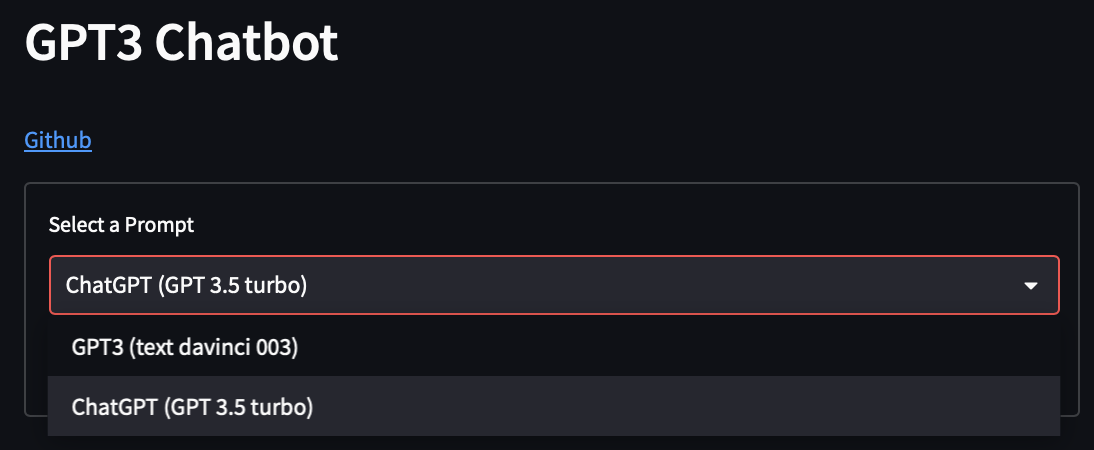
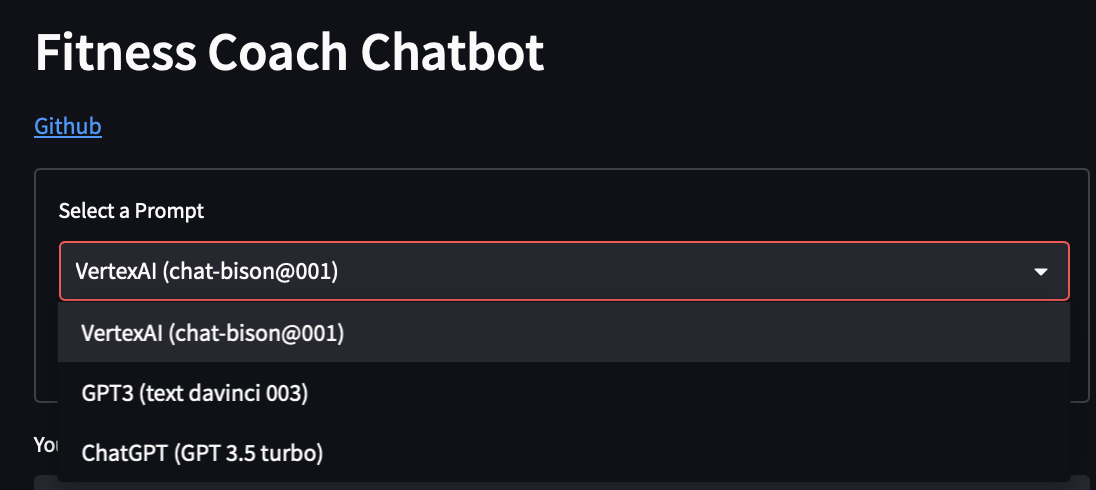
added support for Google Vertex AI

diff --git a/VertexAI.py b/VertexAI.py
@@ -1,0 +1,49 @@
+from vertexai.preview.language_models import ChatModel
+import vertexai
+import json  
+from google.oauth2 import service_account
+import google.cloud.aiplatform as aiplatform
+from vertexai.preview.language_models import InputOutputTextPair
+# Load the service account json file
+# Update the values in the json file with your own
+with open(
+    "service_account.json"
+) as f:  # replace 'service_account.json' with the path to your file if necessary
+    service_account_info = json.load(f)
+
+my_credentials = service_account.Credentials.from_service_account_info(
+    service_account_info
+)
+
+# Initialize Google AI Platform with project details and credentials
+aiplatform.init(
+    credentials=my_credentials,
+)
+
+with open("service_account.json", encoding="utf-8") as f:
+    project_json = json.load(f)
+    project_id = project_json["project_id"]
+
+
+# Initialize Vertex AI with project and location
+vertexai.init(project=project_id, location="us-central1")
+
+def vertexAI(human_msg="Hi"):
+    """
+    Receives a message from the user, processes it, and returns a response from the model.
+    """
+    chat_model = ChatModel.from_pretrained("chat-bison@001")
+    chat = chat_model.start_chat(  # Initialize the chat with model
+        context = """You are a personal trainer. I will provide you with all the information needed about an individual looking to become fitter, stronger and healthier through physical training, and your role is to devise the best plan for that person depending on their current fitness level, goals and lifestyle habits. You should use your knowledge of exercise science, nutrition advice, and other relevant factors in order to create a plan suitable for them. My first request is "I need help designing an exercise program for someone who wants to lose weight. You should be able to provide suggestions to users regarding their exercise routines, diet plans, etc. according to the users’ fitness goals.""",
+        examples = [InputOutputTextPair(input_text="Can you help me design an exercise program to improve my overall fitness?",output_text="Sure, I'd be happy to help. Can you tell me a little bit about your current fitness level and your fitness goals?"),
+                    InputOutputTextPair(input_text="I need help designing a workout plan for weight loss.", output_text="Absolutely! Monday: Warm-up: 5 minutes of brisk walking Cardiovascular exercise: 30 minutes of moderate-intensity cycling or jogging Strength training: 3 sets of 12 reps of squats, lunges, push-ups, and bicep curls Cool-down: 5 minutes of stretching Tuesday: Rest day Wednesday: Warm-up: 5 minutes of jumping jacks or rope jumping Cardiovascular exercise: 30 minutes of high-intensity interval training (HIIT) on the treadmill or elliptical machine Strength training: 3 sets of 12 reps of deadlifts, bench press, tricep dips, and lateral raises Cool-down: 5 minutes of stretching Thursday: Rest day Friday: Warm-up: 5 minutes of jumping jacks or rope jumping Cardiovascular exercise: 30 minutes of moderate-intensity swimming or rowing Strength training: 3 sets of 12 reps of step-ups, pull-ups, shoulder presses, and planks Cool-down: 5 minutes of stretching Saturday: Rest day Sunday: Warm-up: 5 minutes of brisk walking Cardiovascular exercise: 30 minutes of low-impact aerobics or yoga Strength training: 3 sets of 12 reps of calf raises, leg curls, crunches, and reverse flies Cool-down: 5 minutes of stretching")], 
+        temperature= 0.8,
+        max_output_tokens= 1024,
+        top_p= 0.8,
+        top_k= 40
+    )
+   
+    # Send the human message to the model and get a response
+    response = chat.send_message(human_msg)
+    # Return the model's response
+    return response.text

diff --git a/chatbot.py b/chatbot.py
@@ -3,6 +3,7 @@ from streamlit_chat import message
 import requests
 from chatgpt_fitness import *
 from gpt3_fitness import *
+from VertexAI import vertexAI
 
 st.header("Fitness Coach Chatbot")
 st.markdown("[Github](https://github.com/linusaltacc/FitnessCoach-ChatBot-using-ChatGPT)")
@@ -18,14 +19,16 @@ def get_text():
     return input_text 
 
 form = st.form("my_form",clear_on_submit=False)
-p = form.selectbox('Select a Prompt', ("GPT3 (text davinci 003)", "ChatGPT (GPT 3.5 turbo)"))
+p = form.selectbox('Select a Prompt', ("VertexAI (chat-bison@001)","GPT3 (text davinci 003)", "ChatGPT (GPT 3.5 turbo)"))
 submit = form.form_submit_button("Submit")
-prompt = gpt3 #default prompt
+prompt = vertexAI #default prompt
 if submit:
     if p == "GPT3":
         prompt = gpt3
     elif p == "ChatGPT":
         prompt = chatgpt
+    elif p == "Palm":
+        prompt = vertexAI
 
 user_input = get_text()
 if user_input:

diff --git a/README.md b/README.md
@@ -1,12 +1,12 @@
 Fitness Coach Chatbot with ChatGPT
 ================================
 
-This project aims to create a chatbot using ChatGPT(GPT-3.5-turbo)/ GPT3 (text-davinci-003) API that can help users with their fitness goals like being their personal fitness trainer. The chatbot can provide suggestions related to exercise routines, diet plans, and more based on the users' fitness goals.
+This project aims to create a chatbot using Chat APIs integrating with GPT(GPT-3.5-turbo)/ GPT3 (text-davinci-003)/ VertexAI (chat-bison@001) that can help users with their fitness goals like being their personal fitness trainer. The chatbot can provide suggestions related to exercise routines, diet plans, and more based on the users' fitness goals.
 
 Prerequisites
 -------------
 
-Before getting started with the project, you will need to have an OpenAI API key. You can get the key by signing up on the [OpenAI's website](https://platform.openai.com/account/api-keys). Once you have an API key, you can integrate it with the Streamlit interface.
+Before getting started with the project, you will need to have an OpenAI API or Vertex AI API key. You can get the key by signing up on the [OpenAI's website](https://platform.openai.com/account/api-keys) for OpenAI key and for Vertex AI visit Google Cloud. Once you have an API key, you can integrate it with the Streamlit interface.
 
 Integration
 -----------
@@ -16,12 +16,22 @@ Integration
 pip install -r requirements.txt
 ```
 
+* using OpenAI API or Vertex AI API
+
+OpenAI API
+----------
 * Once all the requirement libraries are installed, create a file called `apikey.py`
 
 * Declare a varibale named `openai_api_key` with API key value.
 ```sh
 echo "openai_api_key = '<Enter your OpenAI Key here>' " > apikey.py
 ```
+<center>< or ></center>
+--
+Google Vertex AI API
+------------------
+
+* Download `service_account.json` from your google cloud account and place it in the root directory of the project.
 
 Running the Streamlit App
 -------------------------
